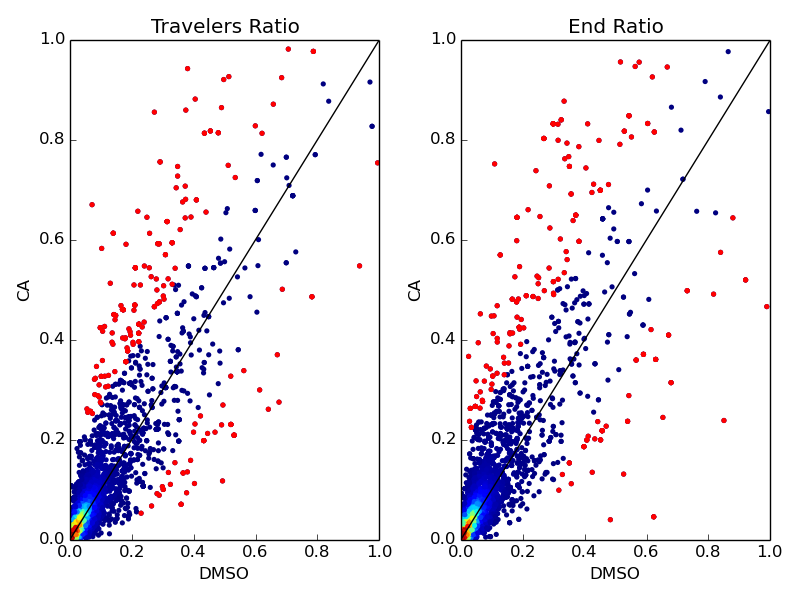
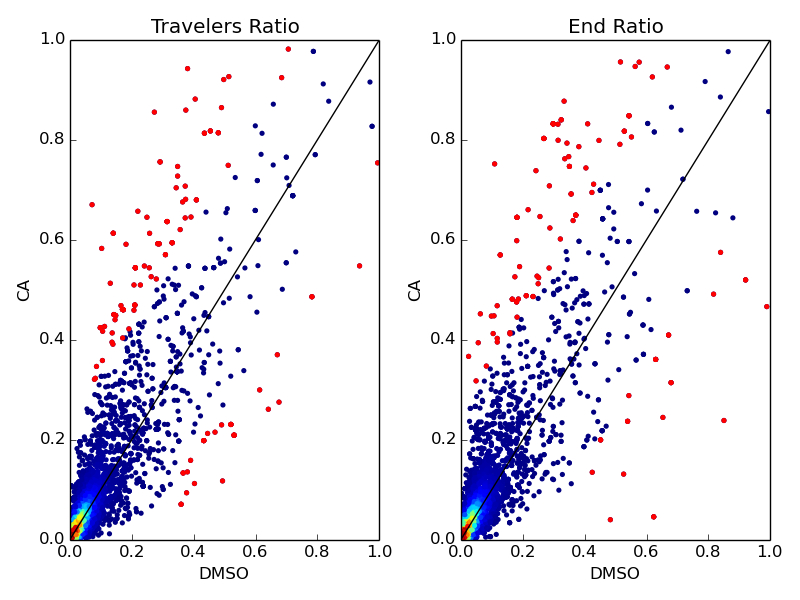
Updates

diff --git a/src/master_writer.py b/src/master_writer.py
@@ -115,22 +115,22 @@ def run(DMSOgenes,DMSOTSS,DMSOEND,CAgenes,CATSS,CAEND,filedir,figuredir):
         d = np.sqrt((x-xy[0])**2+(y-xy[1])**2)
         print x,y,xy,d
         distance.append(d)
-        
-    grubbs = True
-    alpha = 0.05
-    i=0
-    N = len(distance)
-    distancelist = np.zeros(N)
-    s = np.sqrt(np.var(distance))
-    TRx2 = list()
-    TRy2 = list()
-    print N,len(TRx),len(TRy)
-    for i in range(N):
-        if distance[i] > 4*s:
-            print i
-            TRx2.append(TRx[i])
-            TRy2.append(TRy[i])
-            
+    #    
+    #grubbs = True
+    #alpha = 0.05
+    #i=0
+    #N = len(distance)
+    #distancelist = np.zeros(N)
+    #s = np.sqrt(np.var(distance))
+    #TRx2 = list()
+    #TRy2 = list()
+    #print N,len(TRx),len(TRy)
+    #for i in range(N):
+    #    if distance[i] > 4*s:
+    #        print i
+    #        TRx2.append(TRx[i])
+    #        TRy2.append(TRy[i])
+    #        
     distance2 = list()
     for i in range(len(ERx)):
         x = ERx[i]
@@ -139,38 +139,69 @@ def run(DMSOgenes,DMSOTSS,DMSOEND,CAgenes,CATSS,CAEND,filedir,figuredir):
         d = np.sqrt((x-xy[0])**2+(y-xy[1])**2)
         print x,y,xy,d
         distance2.append(d)
-        
+    #    
+    #
+    #N = len(distance2)
+    #distancelist = np.zeros(N)
+    #s = np.sqrt(np.var(distance2))
+    #ERx2 = list()
+    #ERy2 = list()
+    #print N,len(ERx),len(ERy)
+    #for i in range(N):
+    #    if distance2[i] > 4*s:
+    #        print i
+    #        ERx2.append(ERx[i])
+    #        ERy2.append(ERy[i])
+    
+    TRx2 = list()
+    TRy2 = list()
     grubbs = True
     alpha = 0.05
+    distancelist = distance
     i=0
-    N = len(distance2)
-    distancelist = np.zeros(N)
-    s = np.sqrt(np.var(distance2))
+    while grubbs == True:
+        i+=1
+        #print i
+        N = len(distance)
+        M = np.amax(distance)
+        t = stats.t.ppf(1-alpha/2, N-1)
+        s = np.sqrt(np.var(distance))
+        mean = np.mean(distance)
+        G = np.absolute(M-mean)/s
+        grubbs = G > ((N-1)/np.sqrt(N))*np.sqrt((t**2)/(N-2+t**2))
+        #print N,M,t,s,mean,G,grubbs
+        #print G,((N-1)/np.sqrt(N))*np.sqrt((t**2)/(N-2+t**2))
+        if grubbs == True:
+            index = np.where(distance==M)[0][0]
+            index2 = np.where(distancelist==M)[0][0]
+            TRx2.append(TRx[index2])
+            TRy2.append(TRy[index2])
+            distance = np.delete(distance,distance[index])
+            
     ERx2 = list()
     ERy2 = list()
-    print N,len(ERx),len(ERy)
-    for i in range(N):
-        if distance2[i] > 4*s:
-            print i
-            ERx2.append(ERx[i])
-            ERy2.append(ERy[i])
-            
-    #while grubbs == True:
-    #    i+=1
-    #    #print i
-    #    N = len(distance)
-    #    M = np.amax(distance)
-    #    t = stats.t.ppf(1-alpha/2, N-1)
-    #    s = np.sqrt(np.var(distance))
-    #    mean = np.mean(distance)
-    #    G = np.absolute(M-mean)/s
-    #    grubbs = G > ((N-1)/np.sqrt(N))*np.sqrt((t**2)/(N-2+t**2))
-    #    #print N,M,t,s,mean,G,grubbs
-    #    #print G,((N-1)/np.sqrt(N))*np.sqrt((t**2)/(N-2+t**2))
-    #    if grubbs == True:
-    #        index = np.where(distance==M)[0][0]
-    #        distancelist[index] = 1
-    #        distance = np.delete(distance,distance[index])
+    grubbs = True
+    alpha = 0.05
+    distancelist2 = distance2
+    i=0
+    while grubbs == True:
+        i+=1
+        #print i
+        N = len(distance2)
+        M = np.amax(distance2)
+        t = stats.t.ppf(1-alpha/2, N-1)
+        s = np.sqrt(np.var(distance2))
+        mean = np.mean(distance2)
+        G = np.absolute(M-mean)/s
+        grubbs = G > ((N-1)/np.sqrt(N))*np.sqrt((t**2)/(N-2+t**2))
+        #print N,M,t,s,mean,G,grubbs
+        #print G,((N-1)/np.sqrt(N))*np.sqrt((t**2)/(N-2+t**2))
+        if grubbs == True:
+            index = np.where(distance2==M)[0][0]
+            index2 = np.where(distancelist2==M)[0][0]
+            ERx2.append(ERx[index2])
+            ERy2.append(ERy[index2])
+            distance2 = np.delete(distance2,distance2[index])
     
     
     
